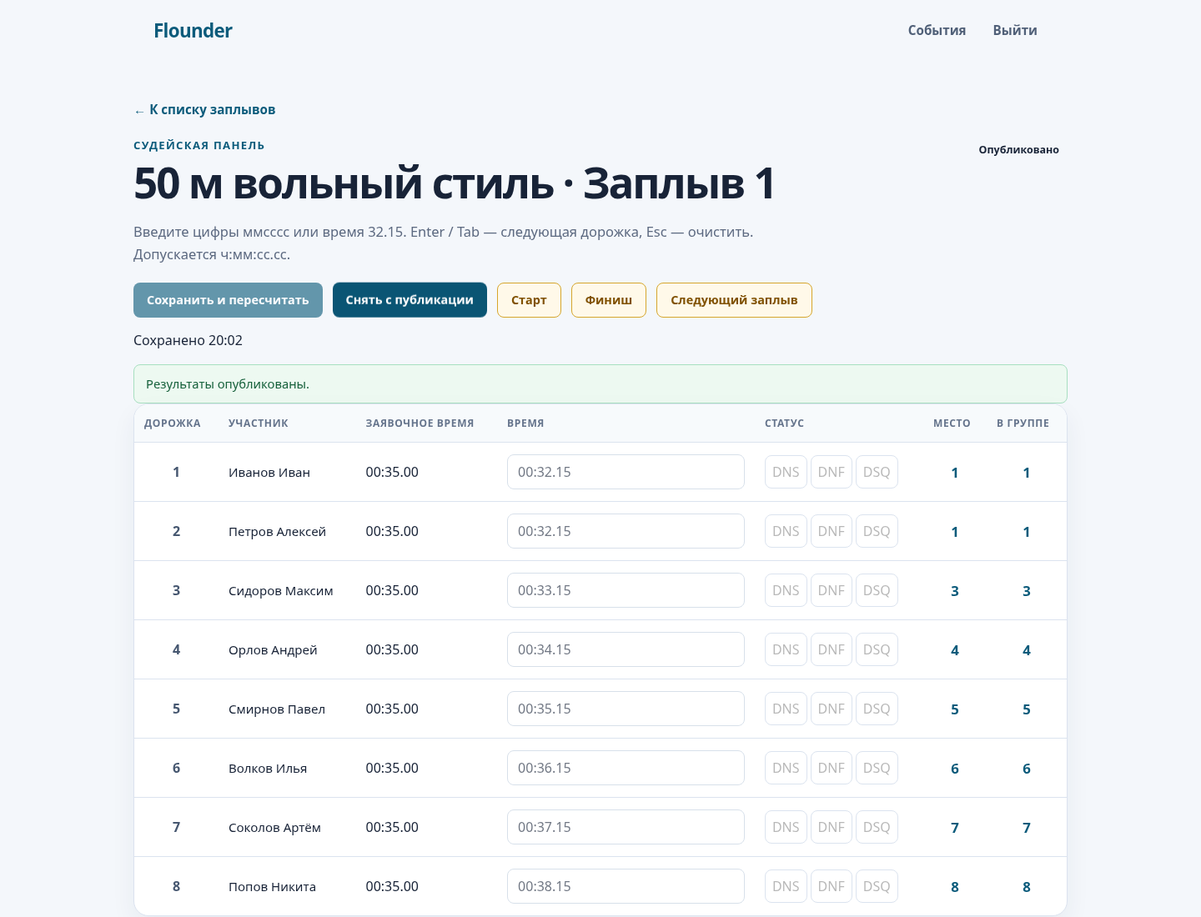
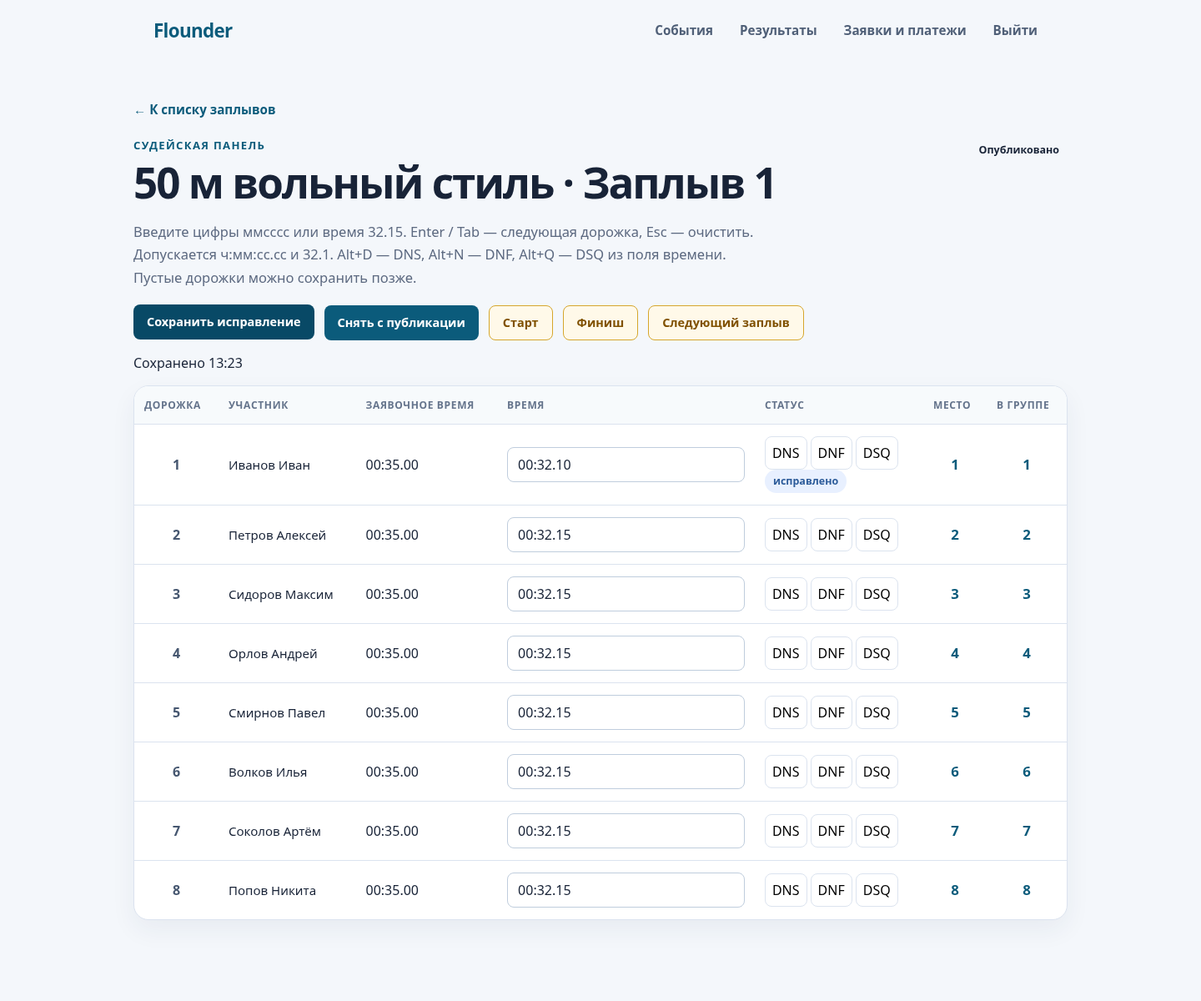
fix(results): address judge panel review and published corrections

diff --git a/sport-platform/frontend/src/features/results/JudgePanelPage.tsx b/sport-platform/frontend/src/features/results/JudgePanelPage.tsx
@@ -1,5 +1,5 @@
 import { useEffect, useRef, useState } from 'react'
-import { Link, useNavigate, useParams, useSearchParams } from 'react-router'
+import { Link, useLocation, useNavigate, useParams, useSearchParams } from 'react-router'
 import { getEvent } from '../../api/events.api'
 import {
   changeCompetitionUnitPublication, changeHeatState, getCompetitionUnitDetails,
@@ -8,6 +8,7 @@ import {
 } from '../../api/results.api'
 import { useAuth } from '../../app/providers/AuthProvider'
 import { maskTime, normalizeTime } from './time-input'
+import { heatStatusLabel, resultErrorMessage } from './results-ui'
 import styles from './JudgePanelPage.module.css'
 
 type Draft = { time: string; status: HeatResultRequest['status'] }
@@ -20,7 +21,8 @@ export function JudgePanelPage() {
   const { unitId } = useParams()
   const [params] = useSearchParams()
   const navigate = useNavigate()
-  const { session } = useAuth()
+  const location = useLocation()
+  const { session, hasAnyRole } = useAuth()
   const token = session?.accessToken
   const [unit, setUnit] = useState<CompetitionUnitDetailsResponse | null>(null)
   const [drafts, setDrafts] = useState<Record<string, Draft>>({})
@@ -37,6 +39,11 @@ export function JudgePanelPage() {
   const saveButton = useRef<HTMLButtonElement | null>(null)
   const eventId = unit?.eventId ?? params.get('eventId')
   const published = unit?.status === 'PUBLISHED'
+  const canEdit = !published || hasAnyRole(['operator', 'organizer'])
+  const loadedUnitId = unit?.id
+  const disciplineId = unit?.eventDisciplineId
+  const navigationWarning = (location.state as { liveWarning?: string } | null)?.liveWarning
+  const statusButtons = useRef<Record<string, HTMLButtonElement | null>>({})
   const entries = [...(unit?.entries ?? [])].sort((a, b) =>
     (a.laneOrPosition ?? Infinity) - (b.laneOrPosition ?? Infinity))
 
@@ -56,34 +63,34 @@ export function JudgePanelPage() {
       if (active) { setLoading(true); setError(''); setNotice(''); setSavedAt(''); setUnit(null) }
       return getCompetitionUnitDetails(unitId, token)
     }).then(data => { if (active) applyUnit(data) })
-      .catch(() => { if (active) setError('Не удалось загрузить заплыв. Проверьте права доступа.') })
+      .catch(error => { if (active) setError(resultErrorMessage(error, 'Не удалось загрузить заплыв. Повторите попытку.')) })
       .finally(() => { if (active) setLoading(false) })
     return () => { active = false }
   }, [token, unitId])
 
   useEffect(() => {
-    if (!token || !unit) return
+    if (!token || !disciplineId || loadedUnitId !== unitId) return
+    const resolvedDisciplineId = disciplineId
     let active = true
-    const current = unit
     async function findNext() {
       await Promise.resolve()
       if (!active) return
       setNextId(null); setNextError('')
-      const local = await getCompetitionUnitsByDiscipline(current.eventDisciplineId, token!)
-      const currentSummary = local.find(u => u.id === current.id)
+      const local = await getCompetitionUnitsByDiscipline(resolvedDisciplineId, token!)
+      const currentSummary = local.find(u => u.id === loadedUnitId)
       let next = local.filter(u => (u.sequenceNumber ?? 0) > (currentSummary?.sequenceNumber ?? Infinity))
         .sort((a, b) => (a.sequenceNumber ?? 0) - (b.sequenceNumber ?? 0))[0]
       if (eventId && currentSummary?.scheduledAt) {
         const event = await getEvent(eventId, token)
-        const lists = await Promise.all((event.disciplines ?? []).map(d => getCompetitionUnitsByDiscipline(d.id, token!)))
+        const lists = await Promise.all((event.disciplines ?? []).map(d => d.id === resolvedDisciplineId ? Promise.resolve(local) : getCompetitionUnitsByDiscipline(d.id, token!)))
         next = lists.flat().filter(u => u.scheduledAt && Date.parse(u.scheduledAt) > Date.parse(currentSummary.scheduledAt!))
           .sort((a, b) => Date.parse(a.scheduledAt!) - Date.parse(b.scheduledAt!))[0]
       }
       if (active) setNextId(next?.id ?? null)
     }
-    void findNext().catch(() => { if (active) setNextError('Не удалось определить следующий заплыв.') })
+    void findNext().catch(error => { if (active) setNextError(resultErrorMessage(error, 'Не удалось определить следующий заплыв.')) })
     return () => { active = false }
-  }, [token, unit, eventId])
+  }, [token, loadedUnitId, disciplineId, unitId, eventId])
 
   function update(id: string, change: Partial<Draft>) {
     setDrafts(current => ({ ...current, [id]: { ...current[id], ...change } }))
@@ -93,7 +100,10 @@ export function JudgePanelPage() {
 
   function validate(id: string) {
     const draft = drafts[id]
-    if (draft?.status !== 'VALID') return true
+    if (draft?.status !== 'VALID' || !draft.time.trim()) {
+      setErrors(current => ({ ...current, [id]: '' }))
+      return true
+    }
     const normalized = normalizeTime(draft.time)
     setErrors(current => ({ ...current, [id]: normalized ? '' : 'Введите время мм:сс.сс (секунды 00–59).' }))
     if (normalized) setDrafts(current => ({ ...current, [id]: { ...current[id], time: normalized } }))
@@ -104,12 +114,12 @@ export function JudgePanelPage() {
     if (busy) return
     setBusy(true); setError(''); setNotice('')
     try { await action() } catch (e) {
-      setError(e instanceof Error ? e.message : 'Не удалось выполнить действие. Повторите попытку.')
+      setError(resultErrorMessage(e, 'Не удалось выполнить действие. Повторите попытку.'))
     } finally { setBusy(false) }
   }
 
   function save() {
-    if (!unit || !token || published) return
+    if (!unit || !token || !canEdit) return
     const invalid = entries.filter(e => !validate(e.entryId))
     if (invalid.length) { inputs.current[invalid[0].entryId]?.focus(); return }
     void run(async () => {
@@ -119,7 +129,7 @@ export function JudgePanelPage() {
         time: drafts[e.entryId].status === 'VALID' ? normalizeTime(drafts[e.entryId].time) : null,
       })), token)
       applyUnit(data)
-      setSavedAt(new Intl.DateTimeFormat('ru-RU', { hour: '2-digit', minute: '2-digit', timeZone: 'Europe/Moscow' }).format(new Date()))
+      setSavedAt(new Intl.DateTimeFormat('ru-RU', { hour: '2-digit', minute: '2-digit' }).format(new Date()))
     })
   }
 
@@ -127,14 +137,15 @@ export function JudgePanelPage() {
     <Link className={styles.backLink} to="/operator/results">← К списку заплывов</Link>
     <div className={styles.titleRow}><div><p className={styles.eyebrow}>Судейская панель</p>
       <h1 className={styles.title}>{unit?.label ?? 'Результаты'}</h1></div>
-      {unit && <span className={styles.unitStatus}>{published ? 'Опубликовано' : unit.status}</span>}
+      {unit && <span className={styles.unitStatus}>{heatStatusLabel(unit.status)}</span>}
     </div>
-    <p className={styles.description}>Введите цифры ммсссс или время 32.15. Enter / Tab — следующая дорожка, Esc — очистить. Допускается ч:мм:сс.сс.</p>
+    <p className={styles.description}>Введите цифры ммсссс или время 32.15. Enter / Tab — следующая дорожка, Esc — очистить. Допускается ч:мм:сс.сс и 32.1. Alt+D — DNS, Alt+N — DNF, Alt+Q — DSQ из поля времени. Пустые дорожки можно сохранить позже.</p>
     {loading && <p role="status">Загрузка…</p>}
     {error && <p className={styles.errorMessage} role="alert">{error}</p>}
+    {navigationWarning && <p className={styles.recalculateHint} role="alert">{navigationWarning}</p>}
     {unit && !loading && <>
       <div className={styles.toolbarControls}>
-        <button className={styles.saveButton} ref={saveButton} disabled={busy || published || !entries.length} onClick={save}>Сохранить и пересчитать</button>
+        <button className={styles.saveButton} ref={saveButton} disabled={busy || !canEdit || !entries.length} onClick={save}>{published ? 'Сохранить исправление' : 'Сохранить и пересчитать'}</button>
         <button className={styles.publishButton} disabled={busy || (!published && (dirty || entries.some(e => !e.rawValue && !e.display && !statusMap[e.resultStatus ?? ''])))} onClick={() => void run(async () => {
           applyUnit(await changeCompetitionUnitPublication(unit.id, !published, token!))
           setNotice(published ? 'Публикация снята.' : 'Результаты опубликованы.')
@@ -145,8 +156,13 @@ export function JudgePanelPage() {
           applyUnit(data); setNotice(action === 'start' ? 'Заплыв начат.' : 'Заплыв завершён.')
         })}>{action === 'start' ? 'Старт' : 'Финиш'}</button>)}
         <button className={styles.unpublishButton} disabled={busy || dirty || !nextId} onClick={() => void run(async () => {
-          if (eventId) await setLiveHeat(eventId, nextId!, token!)
-          navigate(`/operator/competition-units/${nextId}${eventId ? `?eventId=${encodeURIComponent(eventId)}` : ''}`)
+          let liveWarning: string | undefined
+          if (eventId) {
+            try { await setLiveHeat(eventId, nextId!, token!) } catch (error) {
+              liveWarning = `Следующий заплыв открыт, но табло не обновлено. ${resultErrorMessage(error, 'Не удалось обновить live. Повторите обновление табло.')}`
+            }
+          }
+          navigate(`/operator/competition-units/${nextId}${eventId ? `?eventId=${encodeURIComponent(eventId)}` : ''}`, { state: { liveWarning } })
         })}>Следующий заплыв</button>
       </div>
       <p role="status">{dirty ? 'Есть несохранённые изменения' : savedAt ? `Сохранено ${savedAt}` : ''}</p>
@@ -162,8 +178,17 @@ export function JudgePanelPage() {
             <td><input className={styles.resultInput} aria-label={`Время, дорожка ${entry.laneOrPosition}`} aria-invalid={Boolean(errors[entry.entryId])}
               aria-describedby={errors[entry.entryId] ? `error-${entry.entryId}` : undefined}
               ref={node => { inputs.current[entry.entryId] = node }} value={draft.time} inputMode="decimal" placeholder="00:32.15"
-              disabled={busy || published || draft.status !== 'VALID'} onChange={e => update(entry.entryId, { time: maskTime(e.target.value) })}
-              onBlur={() => validate(entry.entryId)} onKeyDown={e => {
+              disabled={busy || !canEdit || draft.status !== 'VALID'} onChange={e => update(entry.entryId, { time: maskTime(e.target.value) })}
+              onBlur={e => {
+                if ((e.relatedTarget as HTMLElement | null)?.dataset.entryId !== entry.entryId) validate(entry.entryId)
+              }} onKeyDown={e => {
+                const shortcut = e.altKey ? ({ d: 'DNS', n: 'DNF', q: 'DSQ' } as const)[e.key.toLowerCase() as 'd' | 'n' | 'q'] : undefined
+                if (shortcut) {
+                  e.preventDefault()
+                  update(entry.entryId, { status: shortcut })
+                  statusButtons.current[`${entry.entryId}-${shortcut}`]?.focus()
+                  return
+                }
                 if (e.key === 'Escape') { e.preventDefault(); update(entry.entryId, { time: '' }); return }
                 if (e.key === 'Enter' || (e.key === 'Tab' && !e.shiftKey)) {
                   e.preventDefault(); validate(entry.entryId)
@@ -173,8 +198,9 @@ export function JudgePanelPage() {
               }} />
               {errors[entry.entryId] && <p id={`error-${entry.entryId}`} className={styles.fieldError} role="alert">{errors[entry.entryId]}</p>}
             </td>
-            <td><div className={styles.statusButtons}>{specialStatuses.map(status => <button key={status} type="button" aria-pressed={draft.status === status} disabled={busy || published}
-              onClick={() => update(entry.entryId, { status: draft.status === status ? 'VALID' : status })}>{status}</button>)}</div></td>
+            <td><div className={styles.statusButtons}>{specialStatuses.map(status => <button key={status} type="button" data-entry-id={entry.entryId} aria-pressed={draft.status === status} disabled={busy || !canEdit}
+              ref={node => { statusButtons.current[`${entry.entryId}-${status}`] = node }}
+              onClick={() => update(entry.entryId, { status: draft.status === status ? 'VALID' : status })}>{status}</button>)}</div>{entry.resultStatus === 'CORRECTED' && <span className={`${styles.resultStatus} ${styles.resultStatusCorrected}`}>исправлено</span>}</td>
             <td className={styles.placeCell}>{entry.finalPlace ?? '—'}</td><td className={styles.placeCell}>{entry.placeInAgeGroup ?? '—'}</td>
           </tr>
         })}</tbody>

diff --git a/sport-platform/frontend/src/features/results/CompetitionUnitsPage.tsx b/sport-platform/frontend/src/features/results/CompetitionUnitsPage.tsx
@@ -3,6 +3,7 @@ import { useNavigate } from 'react-router'
 import { getEvent, getMyEvents, type Event, type EventDiscipline } from '../../api/events.api'
 import { getCompetitionUnitsByDiscipline, type CompetitionUnitResponse } from '../../api/results.api'
 import { useAuth } from '../../app/providers/AuthProvider'
+import { heatStatusLabel, resultErrorMessage } from './results-ui'
 import styles from './CompetitionUnitsPage.module.css'
 
 export function CompetitionUnitsPage() {
@@ -22,7 +23,7 @@ export function CompetitionUnitsPage() {
     if (!token) return
     let active = true
     Promise.resolve().then(() => { if (active) setLoading(true); return getMyEvents(token) }).then(data => { if (active) setEvents(data) })
-      .catch(() => { if (active) setError('Не удалось загрузить события. Проверьте права доступа.') })
+      .catch(error => { if (active) setError(resultErrorMessage(error, 'Не удалось загрузить события. Повторите попытку.')) })
       .finally(() => { if (active) setLoading(false) })
     return () => { active = false }
   }, [token])
@@ -31,7 +32,7 @@ export function CompetitionUnitsPage() {
     if (!token || !eventId) return
     let active = true
     Promise.resolve().then(() => { if (active) { setLoading(true); setError('') }; return getEvent(eventId, token) }).then(data => { if (active) setDisciplines(data.disciplines ?? []) })
-      .catch(() => { if (active) setError('Не удалось загрузить виды программы.') })
+      .catch(error => { if (active) setError(resultErrorMessage(error, 'Не удалось загрузить виды программы. Повторите попытку.')) })
       .finally(() => { if (active) setLoading(false) })
     return () => { active = false }
   }, [token, eventId])
@@ -41,7 +42,7 @@ export function CompetitionUnitsPage() {
     let active = true
     Promise.resolve().then(() => { if (active) { setLoading(true); setError('') }; return getCompetitionUnitsByDiscipline(disciplineId, token) }).then(data => {
       if (active) setUnits([...data].sort((a, b) => (a.sequenceNumber ?? 0) - (b.sequenceNumber ?? 0)))
-    }).catch(() => { if (active) setError('Не удалось загрузить заплывы.') })
+    }).catch(error => { if (active) setError(resultErrorMessage(error, 'Не удалось загрузить заплывы. Повторите попытку.')) })
       .finally(() => { if (active) setLoading(false) })
     return () => { active = false }
   }, [token, disciplineId])
@@ -59,7 +60,7 @@ export function CompetitionUnitsPage() {
         setDisciplineId(e.target.value); setUnitId(''); setUnits([])
       }}><option value="">Выберите вид</option>{disciplines.map(d => <option key={d.id} value={d.id}>{d.name}</option>)}</select></label>
       <label className={styles.field}>Заплыв<select value={unitId} disabled={!disciplineId || loading} onChange={e => setUnitId(e.target.value)}>
-        <option value="">Выберите заплыв</option>{units.map(unit => <option key={unit.id} value={unit.id}>{unit.label} — {unit.status}</option>)}
+        <option value="">Выберите заплыв</option>{units.map(unit => <option key={unit.id} value={unit.id}>{unit.label} — {heatStatusLabel(unit.status)}</option>)}
       </select></label>
       <button className={styles.submitButton} disabled={!unitId || loading}>Открыть</button>
     </form>

diff --git a/sport-platform/frontend/src/features/results/results-ui.ts b/sport-platform/frontend/src/features/results/results-ui.ts
@@ -1,0 +1,19 @@
+import { ApiError } from '../../api/http'
+
+export function resultErrorMessage(error: unknown, fallback: string): string {
+  if (error instanceof ApiError) {
+    if (error.status === 401) return 'Сессия истекла. Войдите в систему снова.'
+    if (error.status === 403) return 'У вашей учётной записи нет прав для работы с этими результатами.'
+    if (error.status === 404) return 'Событие, вид программы или заплыв не найден. Вернитесь к списку заплывов.'
+    return error.message
+  }
+  return fallback
+}
+
+export function heatStatusLabel(status: string): string {
+  const labels: Record<string, string> = {
+    DRAFT: 'Черновик', PUBLISHED: 'Опубликовано', STARTED: 'Идёт заплыв',
+    IN_PROGRESS: 'Идёт заплыв', FINISHED: 'Завершён', COMPLETED: 'Завершён',
+  }
+  return labels[status] ?? status
+}

diff --git a/sport-platform/frontend/tests/time-input.test.ts b/sport-platform/frontend/tests/time-input.test.ts
@@ -1,0 +1,24 @@
+import assert from 'node:assert/strict'
+import { test } from 'node:test'
+import { maskTime, normalizeTime } from '../src/features/results/time-input.ts'
+
+test('normalizes seconds, fractions, and hours without losing precision', () => {
+  for (const [input, expected] of [
+    ['32.1', '00:32.10'], ['32.15', '00:32.15'], ['00:32.1', '00:32.10'],
+    ['1:02:03.4', '62:03.40'], ['62:03.40', '62:03.40'], ['0,1', '00:00.10'],
+  ]) assert.equal(normalizeTime(input), expected)
+})
+
+test('rejects malformed or out-of-range times', () => {
+  for (const input of ['', '32', '00:60.00', '1:60:00.00', '32.123', '-32.1', 'dns']) {
+    assert.equal(normalizeTime(input), null)
+  }
+})
+
+test('inserts separators during digit entry and preserves explicit short fractions', () => {
+  let value = ''
+  for (const digit of '003215') value = maskTime(value + digit)
+  assert.equal(value, '00:32.15')
+  assert.equal(maskTime('32.1'), '32.1')
+  assert.equal(normalizeTime(maskTime('00:32.1')), '00:32.10')
+})

diff --git a/sport-platform/frontend/src/features/results/time-input.ts b/sport-platform/frontend/src/features/results/time-input.ts
@@ -8,11 +8,11 @@ export function maskTime(value: string): string {
 
 export function normalizeTime(value: string): string | null {
   const text = value.trim()
-  const match = /^(?:(?:(\d+):)?(\d+):)?(\d{1,2})[.,](\d{2})$/.exec(text)
+  const match = /^(?:(?:(\d+):)?(\d+):)?(\d{1,2})[.,](\d{1,2})$/.exec(text)
   if (!match) return null
   const hours = Number(match[1] ?? 0)
   const minutes = Number(match[2] ?? 0)
   const seconds = Number(match[3])
   if (seconds > 59 || (match[1] !== undefined && minutes > 59)) return null
-  return `${String(hours * 60 + minutes).padStart(2, '0')}:${String(seconds).padStart(2, '0')}.${match[4]}`
+  return `${String(hours * 60 + minutes).padStart(2, '0')}:${String(seconds).padStart(2, '0')}.${match[4].padEnd(2, '0')}`
 }

diff --git a/tasks/T08_Панель_судьи_результаты.md b/tasks/T08_Панель_судьи_результаты.md
@@ -16,26 +16,3 @@
 ## Критерии приёмки
 - Ввод 8 результатов + сохранение + публикация на моках и на живом бэкенде; ошибки формата показываются рядом с полем.
 - Скриншот панели в PR; `npm run build`/`lint` чистые.
-
-## Реализация потока C и проверка
-
-Фронтенд использует пакетный POST §5.6, отображает finalPlace/placeInAgeGroup из ответа, поддерживает маску, секунды/часы, ошибки возле поля, Enter/Tab/Esc, DNS/DNF/DSQ, entryTime, публикацию и start/finish. Выбор события → вида → заплыва заменяет ручной UUID. Следующий заплыв выбирается по scheduledAt события или sequenceNumber вида; при известном eventId выполняется PUT live. Маршруты результатов открыты operator/judge/organizer/admin.
-
-![Панель на моках](../docs/screenshots/T08-judge-panel.png)
-
-Проверка вручную:
-
-1. Войти, открыть `/operator/results`, выбрать событие, вид и заплыв.
-2. Ввести восемь времён цифрами `003215` с Enter/Tab. Проверить `32.15`, `1:02:03.45`, Esc и ошибку для `00:61.00`.
-3. Переключить DNS/DNF/DSQ: время блокируется; повторное нажатие возвращает обычный результат.
-4. Сохранить: один POST для всех строк, обновление обоих мест, «Сохранено HH:MM». Равные времена отображают серверные места 1,1,3.
-5. Опубликовать, проверить блокировку ввода, снять публикацию; проверить старт/финиш и следующий заплыв с обновлением live.
-
-Валидация: build/lint проходят, новые экраны без предупреждений; существующие предупреждения остальных файлов не менялись. Chromium на моках проверил весь сценарий выше. Автоматический ввод восьми дорожек и сохранение занимают около 1–2 секунд, скорость работы человека не измерялась. Полный mvn test блокируется отсутствием Docker; unit/architecture/JWT проходят с `-Dtest='*Test,!*IntegrationTest,!UserControllerTest'` и Mockito javaagent вместо ограниченного self-attach.
-
-Миграции/backend не менялись согласно промпту потока C. Проверка на живом backend ожидает поток A: в текущем main отсутствуют §5.6 и live/start/finish, entryTime и возрастные места; organizer/events и events/{id} закрыты для operator/judge. Прямая ссылка без eventId использует последовательность внутри вида и не обновляет live.
-
-### Вопросы для техдиректора
-
-- Подтвердить ответ пакетного POST как CompetitionUnitDetailsResponse с entries, display/rawValue, finalPlace и placeInAgeGroup и имя заявочного времени entryTime.
-- Обеспечить в потоке A доступ operator/judge к управляемым событиям с EventAccessService-фильтром и eventId в деталях заплыва для прямых ссылок.
